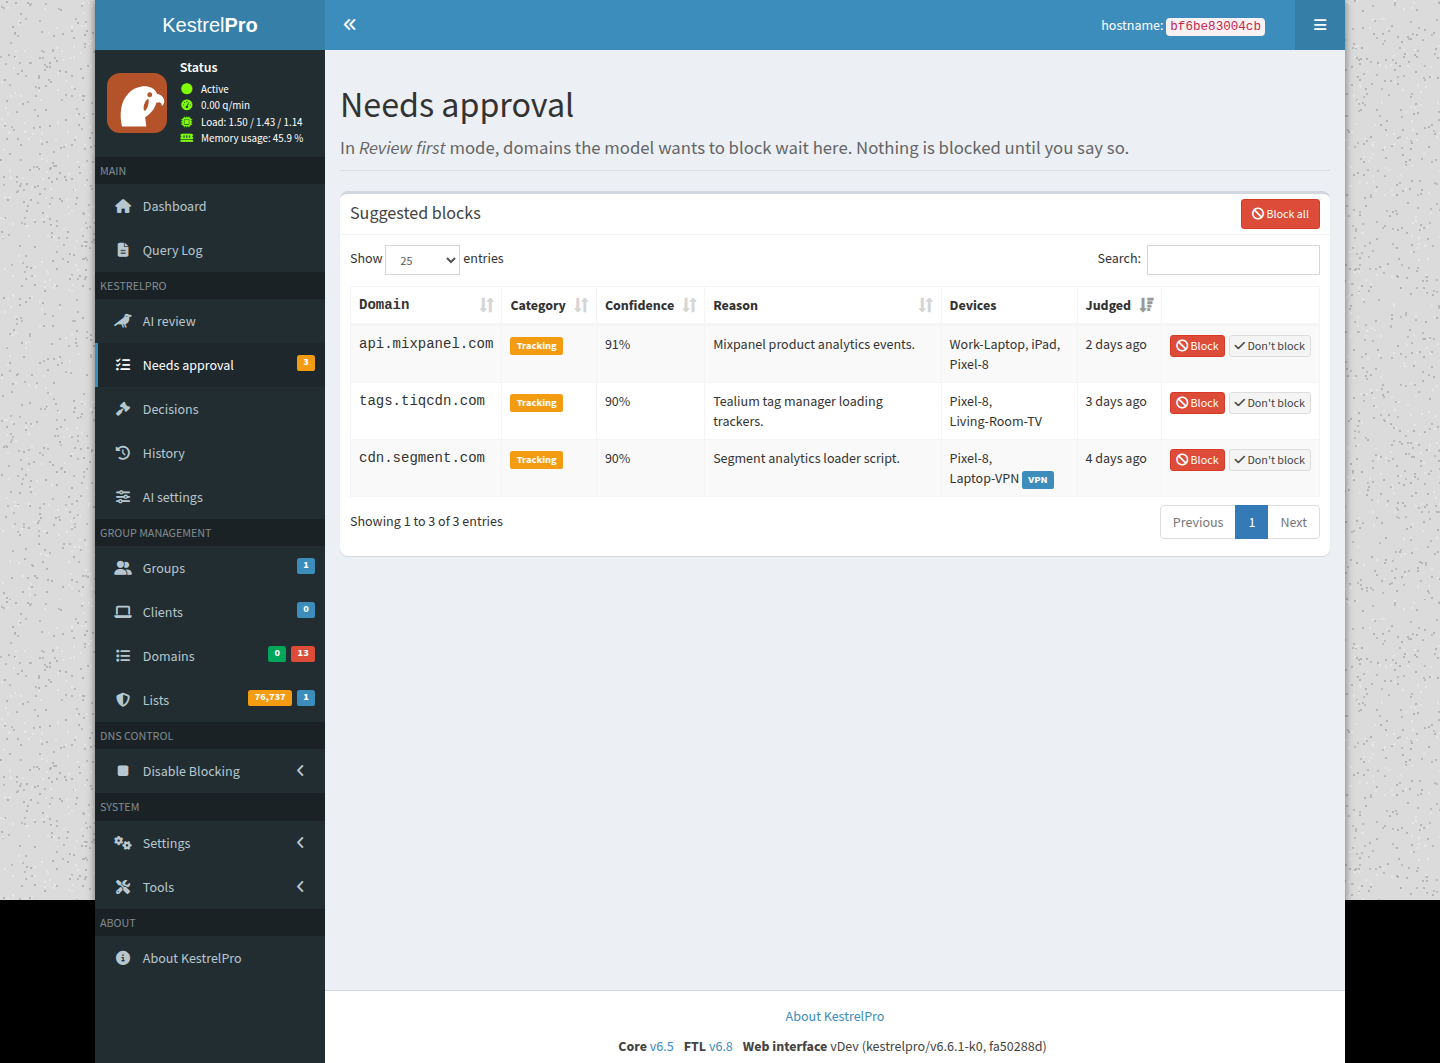
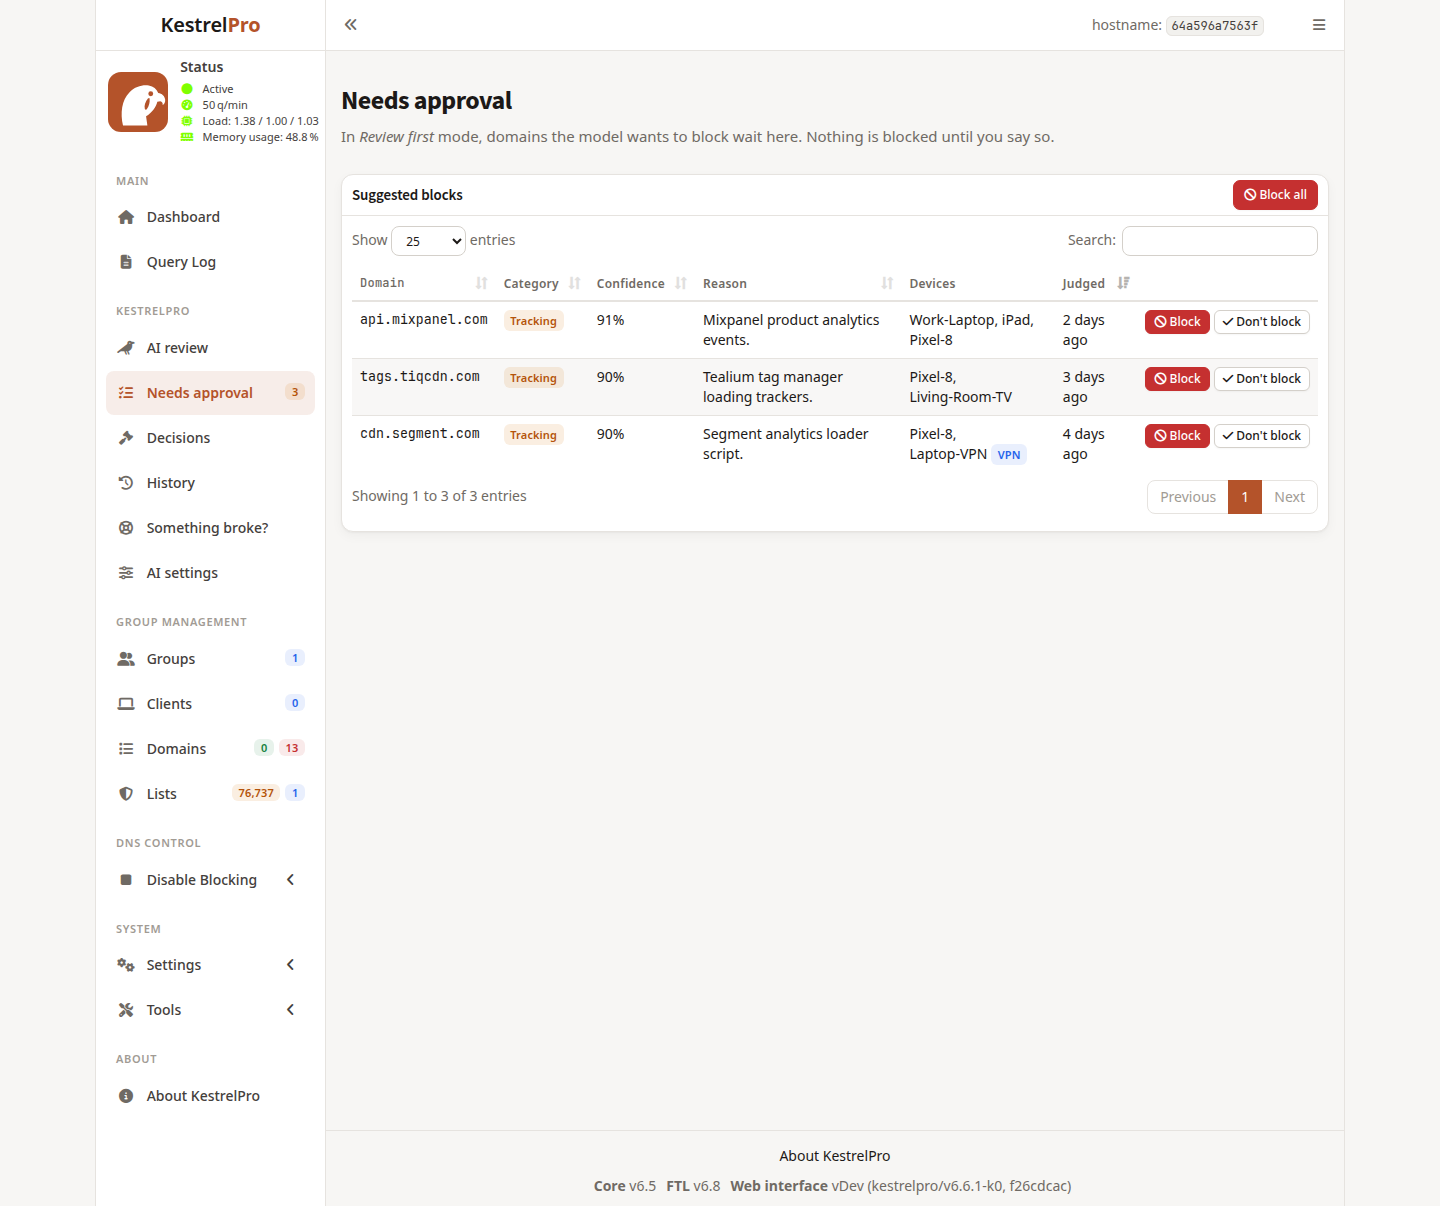
KestrelPro: modern UI screenshots, FTL duplicate-deny fix
- docs/screenshots: all 30 retaken from a clean build with the new
  skin (KestrelPro pages, upstream pages, light, dark, phone).
- README: Design section.
- engine/ftl.py: FTL v6.8 reports a duplicate deny entry as "The item
  is already present", not UNIQUE; re-blocking a domain that is
  already denied returned HTTP 500. Test added (35 tests).

diff --git a/engine/tests/test_ftl.py b/engine/tests/test_ftl.py
@@ -1,0 +1,34 @@
+import unittest
+from unittest import mock
+
+import requests
+
+from kestrel_engine import ftl as ftl_api
+
+
+def http_error(status, text):
+    response = mock.Mock(status_code=status, text=text)
+    return requests.HTTPError(response=response)
+
+
+class DenyTest(unittest.TestCase):
+    def deny_with(self, error):
+        f = ftl_api.FTL("http://ftl", "/nonexistent", "pw")
+        with mock.patch.object(f, "request", side_effect=error):
+            f.deny("ads.example.org", "kestrel: test")
+
+    def test_already_present_is_fine(self):
+        # FTL v6.8's exact answer for a duplicate
+        self.deny_with(http_error(400, '{"error":{"key":"database_error","message":"Could not add to gravity '
+                                       'database","hint":"The item is already present"}}'))
+        self.deny_with(http_error(400, "UNIQUE constraint failed: domainlist.domain"))
+
+    def test_other_errors_raise(self):
+        with self.assertRaises(requests.HTTPError):
+            self.deny_with(http_error(400, '{"error":{"key":"bad_request","message":"Invalid domain"}}'))
+        with self.assertRaises(requests.HTTPError):
+            self.deny_with(http_error(401, "unauthorized"))
+
+
+if __name__ == "__main__":
+    unittest.main()

diff --git a/engine/kestrel_engine/ftl.py b/engine/kestrel_engine/ftl.py
@@ -81,8 +81,10 @@ class FTL:
             self.request("POST", "/domains/deny/exact",
                          json={"domain": domain, "comment": comment, "groups": list(groups), "enabled": True})
         except requests.HTTPError as e:
-            # Already on the deny list is fine.
-            if e.response is None or e.response.status_code != 400 or "UNIQUE" not in e.response.text:
+            # Already on the deny list is fine. FTL v6.8 says "The item is already present";
+            # older versions surfaced SQLite's "UNIQUE constraint failed".
+            text = e.response.text if e.response is not None else ""
+            if e.response is None or e.response.status_code != 400 or not ("already present" in text or "UNIQUE" in text):
                 raise
 
     def set_enabled(self, domain, comment, enabled):

diff --git a/README.md b/README.md
@@ -87,6 +87,22 @@ Taken from a test container filled with made-up data (`engine/tools/seed_demo.py
 
 All screenshots are in [docs/screenshots/](docs/screenshots/), including phone layouts.
 
+## Design
+
+The whole admin UI, not only the KestrelPro pages, uses one modern skin
+(`web/style/kestrelpro.css`, dark tokens in `kestrelpro-dark.css`): neutral surfaces, the
+falcon's rust as the single accent, stat tiles as cards, soft badges, visible keyboard focus.
+Motion is limited to press feedback and the dialog entrance, and is off under the system's
+reduced-motion setting. It applies to the Default themes (light, dark, darker, auto); LCARS
+and the high-contrast themes are left as upstream ships them.
+
+| | |
+|---|---|
+| ![Dashboard](docs/screenshots/dashboard.png) | ![Query Log](docs/screenshots/querylog-light.png) |
+| Dashboard | Query Log |
+| ![Domains](docs/screenshots/domains-dark.png) | ![System settings](docs/screenshots/settings-system-dark.png) |
+| Domains (dark) | System settings (dark) |
+
 ## Debranding
 
 Pi-hole's trademark rules forbid redistributing the software with its marks. In `web/`,
